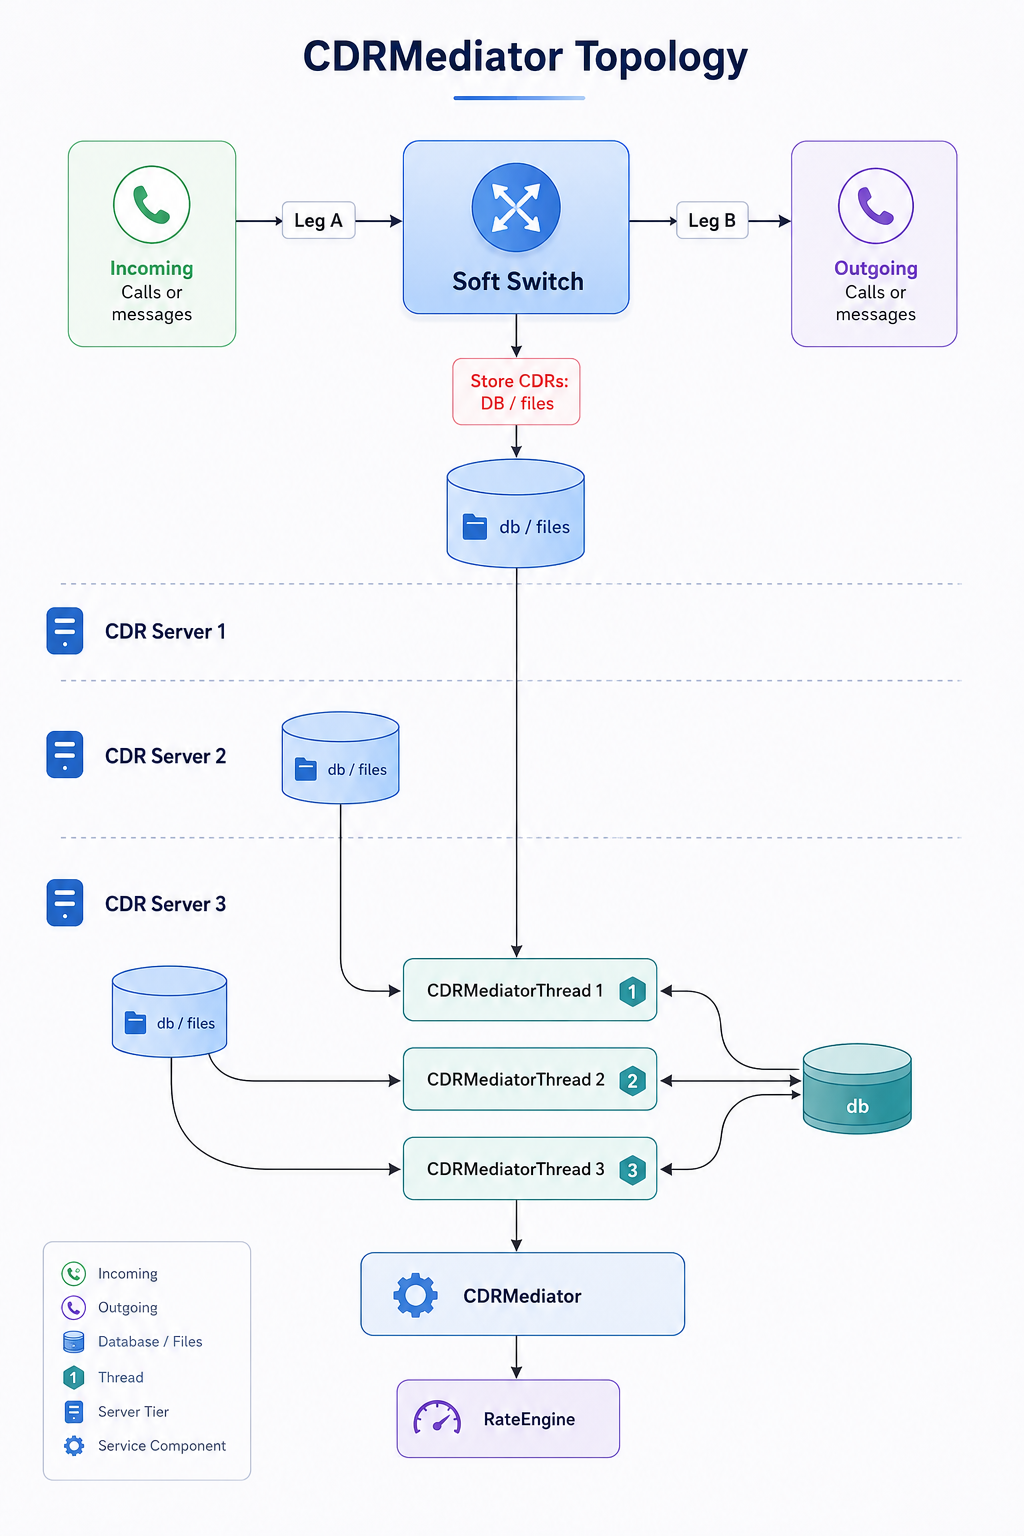
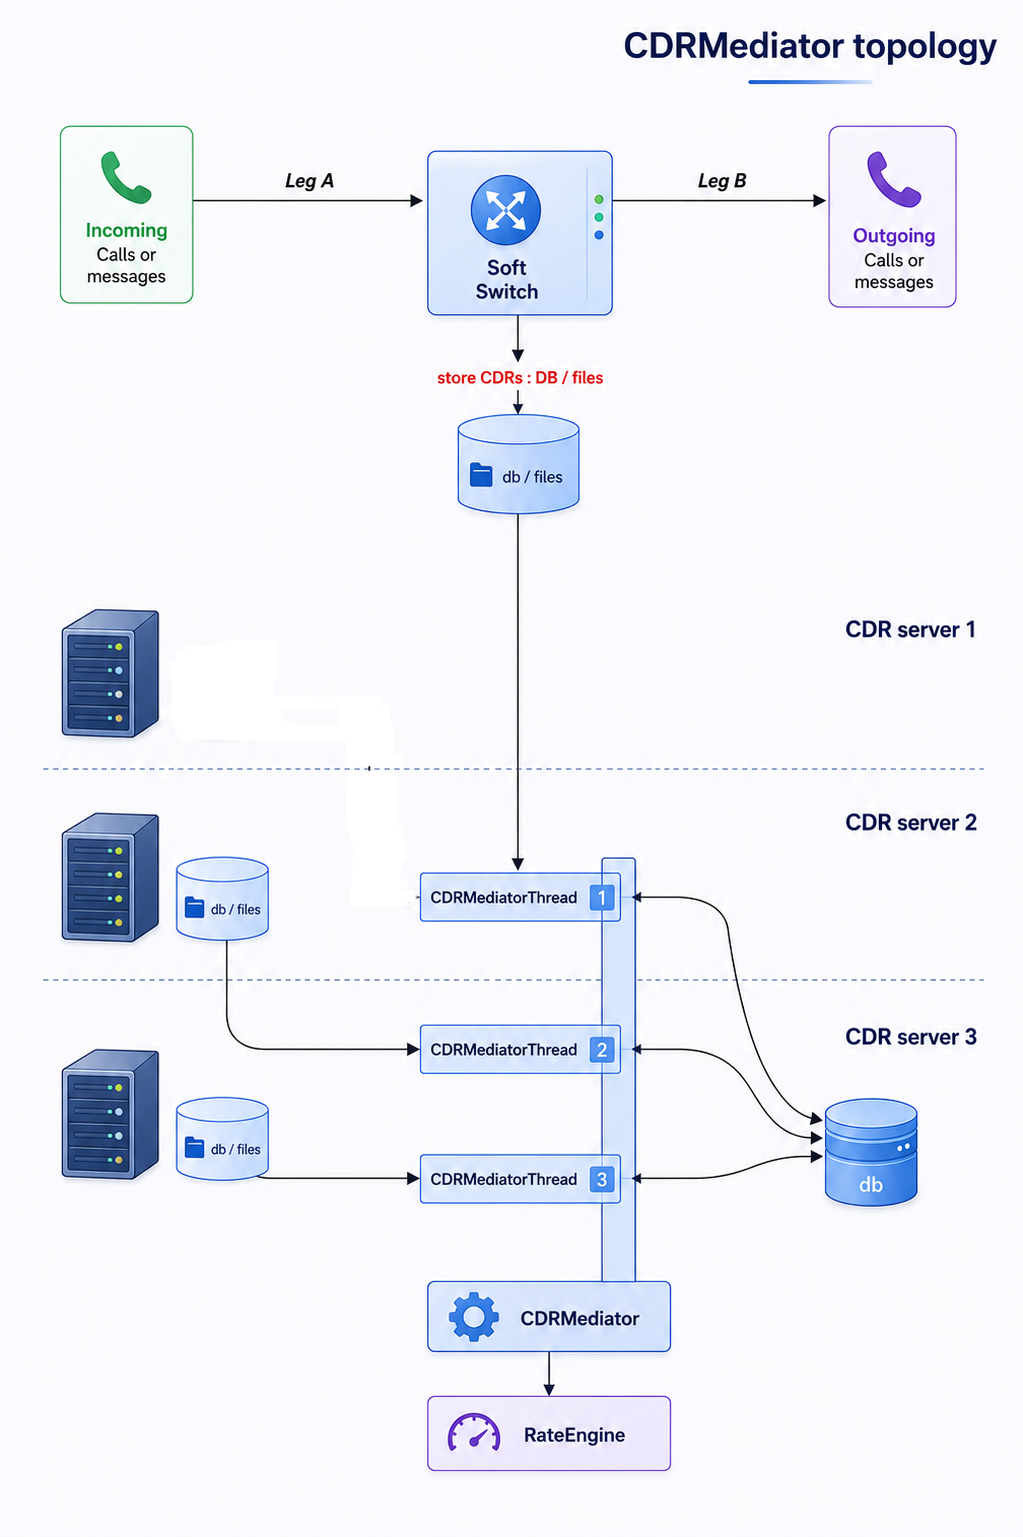
modified:   doc/cdrm.md 	modified:   doc/png/CDRMediator7_genChatGPT.png

diff --git a/doc/cdrm.md b/doc/cdrm.md
@@ -9,7 +9,7 @@ In this case,you shold be used the **CDRMediator** for this task.
 If you would not use this case,don't start CDRMediator,but have to load same module therefore the **Rating** module.
 It uses exporting functions by the **CDRMediator** module.
 
-![](png/CDRMediator.png)
+![](png/CDRMediator7_genChatGPT.png)
 
   The **CDRMediator** can works for several CDRs servers.Every server is different CDR profile
 and different CDRMediatorThread.If you use three CDRs servers,will be have three CDR profiles and three CDRMediatorThreads.